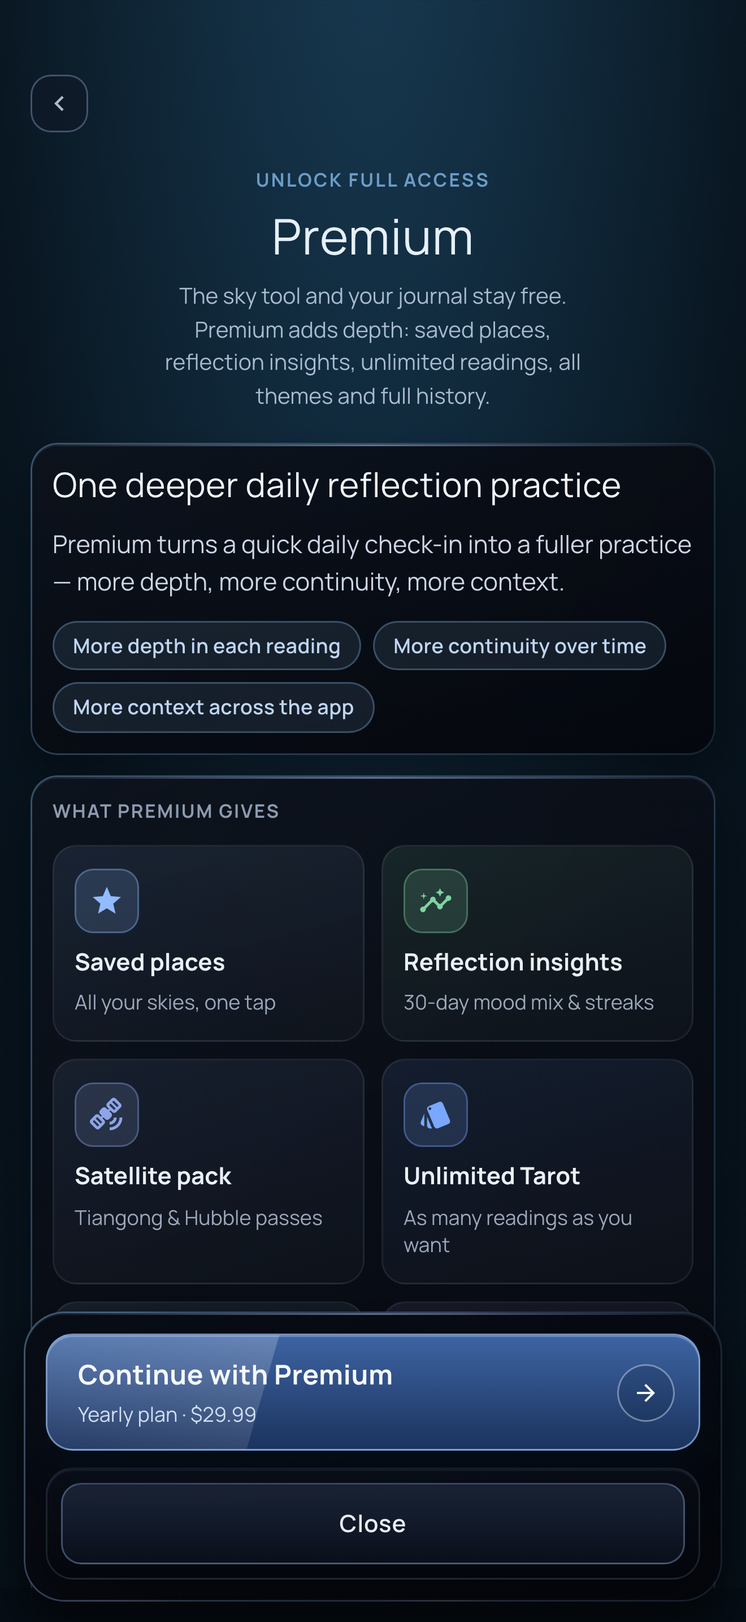
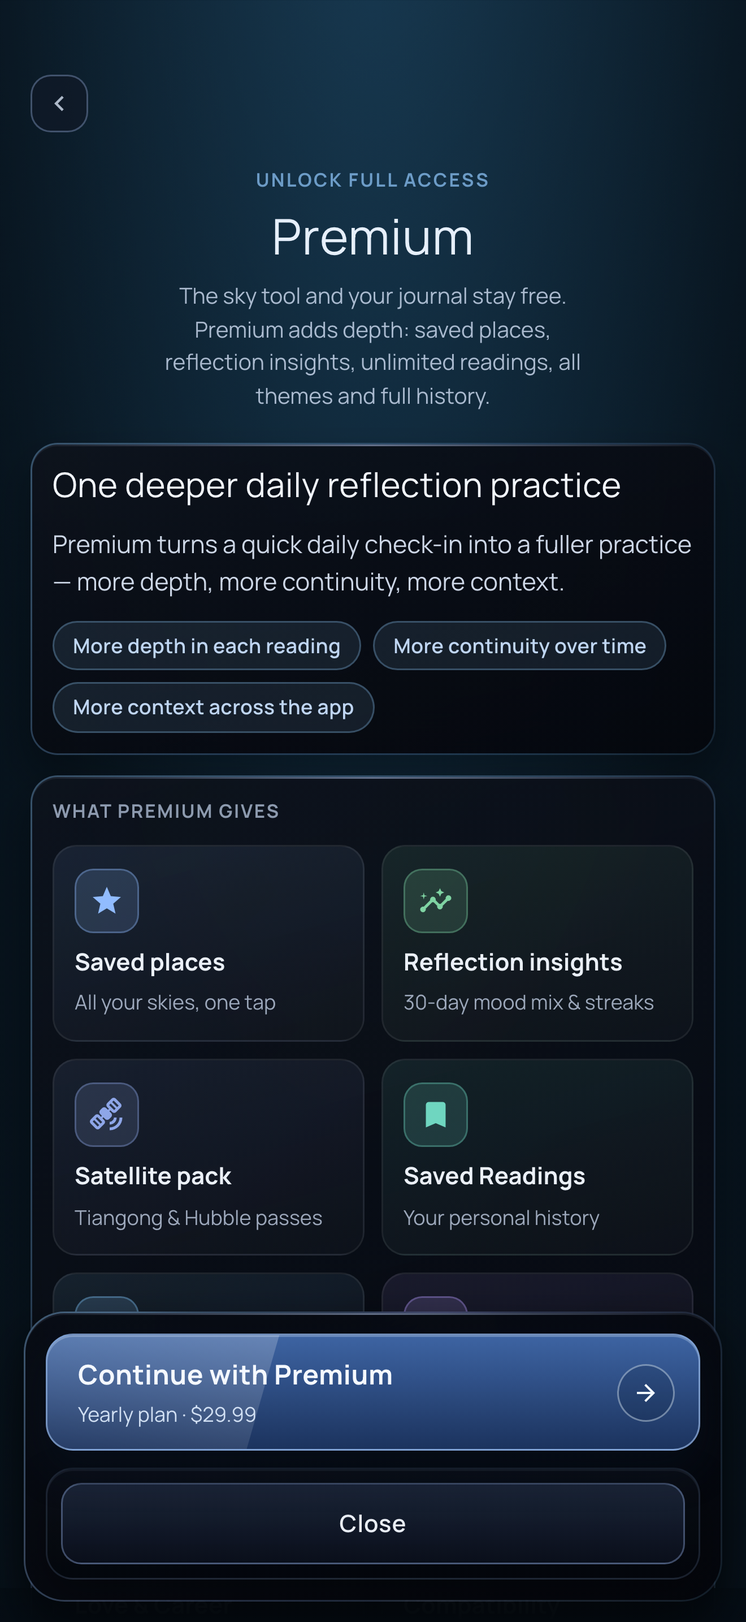
feat(premium): astronomy-first compare table and paywall grid order (owner decision 2026-08-02)
Compare table 5→8 rows, astro rows lead (saved places, journal insights,
satellites) in both locales; accessModel copy leads with the free sky tool.
Rendered paywall grid: all divination tiles below the 6.9in fold — above it
only sky/journal/satellites/history (B3 had patched a non-rendered list).
Shot 8 regenerated; 1-7 untouched. Out-of-scope findings in inbox/
(history tile copy wording — PO). Lint 0, tests 370/370.

Changed region(s): [[0.528, 0.6517, 0.8386, 0.8068], [0.0932, 0.7758, 0.1864, 0.8068]]

diff --git a/src/i18n/messages.bundle.js b/src/i18n/messages.bundle.js
@@ -1809,13 +1809,16 @@ export const messages = {
       title: 'Premium',
       subtitle: 'The sky tool and your journal stay free. Premium adds depth: saved places, reflection insights, unlimited readings, all themes and full history.',
       compareTable: {
-        lead: 'Free covers the full daily reflection ritual. Premium unlocks the deeper formats: full spreads, all daily themes, complete compatibility.',
-        summary: 'Premium = full access to every format with no daily limits.',
-        tarotFormat: { feature: 'Tarot spread', free: '1 card/day', premium: '1, 3, or 5 cards with no limit' },
-        interpretation: { feature: 'Reading depth', free: 'Short takeaway', premiumAi: 'Deep AI reading + action steps', premiumBasic: 'Deep reading + action steps' },
+        lead: 'The sky tool and the reflection journal are free in full. Premium adds more places, a longer view of your journal, and the satellite pack.',
+        summary: 'Premium = every observing place, 30-day insights, extra satellites — and no daily limits.',
+        savedPlaces: { feature: 'Observing places', free: '1 saved place', premium: 'Unlimited saved places' },
+        journalInsights: { feature: 'Journal insights', free: '7-day summary', premium: '30-day mood mix + streaks' },
+        satellites: { feature: 'Satellite passes', free: 'ISS', premium: 'ISS + Tiangong and Hubble' },
         horoscope: { feature: 'Daily themes', free: 'Energy only', premium: 'Energy, love, and career' },
+        interpretation: { feature: 'Reading depth', free: 'Short takeaway', premiumAi: 'Deep AI reading + action steps', premiumBasic: 'Deep reading + action steps' },
         compatibility: { feature: 'Compatibility', free: 'Score + 1 sphere', premium: 'Full relationship reading' },
-        history: { feature: 'History', free: 'No history', premium: 'All readings saved' },
+        history: { feature: 'Reading history', free: 'Not saved', premium: 'All readings saved' },
+        tarotFormat: { feature: 'Tarot spread', free: '1 card/day', premium: '1, 3, or 5 cards with no limit' },
       },
       billingIssues: {
         missingApiKey: 'The store is temporarily unavailable. Please try again later.',
@@ -1829,9 +1832,9 @@ export const messages = {
       },
       accessModel: {
         title: 'Access model',
-        free: 'Free: the daily reflection journal, daily card, energy reading, and one 1-card reading per day.',
+        free: 'Free: tonight’s sky in full — Moon, planets, events and ISS passes — plus the reflection journal, daily card, energy reading, and one 1-card reading per day.',
         premium:
-          'Premium: unlimited tarot sessions, all daily themes, full history, and compatibility insights.',
+          'Premium: unlimited saved observing places, 30-day reflection insights, Tiangong and Hubble passes, all daily themes, full reading history, compatibility insights, and unlimited tarot sessions.',
         purchasePrefix: 'Purchase:',
       },
       status: 'Current access model',
@@ -4449,13 +4452,16 @@ export const messages = {
       title: 'Преміум',
       subtitle: 'Астро-інструмент і твій журнал — безкоштовні. Premium додає глибину: збережені місця, інсайти рефлексії, безліміт розкладів, усі теми й повна історія.',
       compareTable: {
-        lead: 'Free покриває повний щоденний ритуал рефлексії. Premium відкриває глибші формати: повні розклади, всі щоденні теми, повна сумісність.',
-        summary: 'Premium = повний доступ до всіх форматів без денних лімітів.',
-        tarotFormat: { feature: 'Розклад таро', free: '1 карта/день', premium: '1, 3 або 5 карт без ліміту' },
-        interpretation: { feature: 'Розбір', free: 'Короткий висновок', premiumAi: 'Глибокий AI-розбір + кроки', premiumBasic: 'Глибокий розбір + кроки' },
+        lead: 'Небо і щоденник рефлексії безкоштовні повністю. Premium додає більше місць, довший погляд на щоденник і пакет супутників.',
+        summary: 'Premium = усі місця спостереження, інсайти за 30 днів, більше супутників — і без денних лімітів.',
+        savedPlaces: { feature: 'Місця спостереження', free: '1 збережене', premium: 'Без ліміту' },
+        journalInsights: { feature: 'Інсайти щоденника', free: 'Зведення за 7 днів', premium: 'Мікс настроїв за 30 днів + серії' },
+        satellites: { feature: 'Прольоти супутників', free: 'МКС', premium: 'МКС + Тяньгун і Габбл' },
         horoscope: { feature: 'Щоденні теми', free: 'Лише енергія', premium: 'Енергія, кохання, карʼєра' },
+        interpretation: { feature: 'Розбір', free: 'Короткий висновок', premiumAi: 'Глибокий AI-розбір + кроки', premiumBasic: 'Глибокий розбір + кроки' },
         compatibility: { feature: 'Сумісність', free: 'Бал + 1 сфера', premium: 'Повний розбір пари' },
-        history: { feature: 'Історія', free: 'Без історії', premium: 'Усі читання збережені' },
+        history: { feature: 'Історія читань', free: 'Не зберігаються', premium: 'Усі читання збережені' },
+        tarotFormat: { feature: 'Розклад таро', free: '1 карта/день', premium: '1, 3 або 5 карт без ліміту' },
       },
       billingIssues: {
         missingApiKey: 'Магазин тимчасово недоступний. Спробуй пізніше.',
@@ -4469,9 +4475,9 @@ export const messages = {
       },
       accessModel: {
         title: 'Модель доступу',
-        free: 'Free: щоденник рефлексії, карта дня, читання енергії та один розклад на 1 карту щодня.',
+        free: 'Free: небо сьогодні повністю — Місяць, планети, події і прольоти МКС — плюс щоденник рефлексії, карта дня, читання енергії та один розклад на 1 карту щодня.',
         premium:
-          'Premium: необмежені сесії таро, усі щоденні теми, повна історія та інсайти сумісності.',
+          'Premium: необмежені збережені місця спостереження, інсайти рефлексії за 30 днів, прольоти Тяньгун і Габбла, усі щоденні теми, повна історія читань, інсайти сумісності та необмежені сесії таро.',
         purchasePrefix: 'Покупка:',
       },
       status: 'Поточна модель доступу',

diff --git a/src/components/main/PremiumInfoComponent.vue b/src/components/main/PremiumInfoComponent.vue
@@ -271,12 +271,14 @@ const featureItems = computed(() => [
     sub: tt('premiumPage.feat.satellitesSub'),
   },
   {
-    key: 'tarot',
-    icon: 'style',
-    tint: '#7aa7ff',
-    title: tt('premiumPage.feat.tarot'),
-    sub: tt('premiumPage.feat.tarotSub'),
+    key: 'history',
+    icon: 'bookmark',
+    tint: '#6fd6c0',
+    title: tt('premiumPage.feat.history'),
+    sub: tt('premiumPage.feat.historySub'),
   },
+  // Т-B/B3 (рішення Олександра 2026-08-02): усе дивінаційне — таро, розклади,
+  // сумісність — нижче астрономічних плиток і історії, поза згином пейволла.
   {
     key: 'spreads',
     icon: 'grid_view',
@@ -305,28 +307,37 @@ const featureItems = computed(() => [
     title: tt('premiumPage.feat.compat'),
     sub: tt('premiumPage.feat.compatSub'),
   },
+  // Т-B/B3 (рішення Олександра 2026-08-02): «Unlimited Tarot» — остання плитка
+  // рендереного ґріду, щоб над згином пейволла було небо, а не таро.
   {
-    key: 'history',
-    icon: 'bookmark',
-    tint: '#6fd6c0',
-    title: tt('premiumPage.feat.history'),
-    sub: tt('premiumPage.feat.historySub'),
+    key: 'tarot',
+    icon: 'style',
+    tint: '#7aa7ff',
+    title: tt('premiumPage.feat.tarot'),
+    sub: tt('premiumPage.feat.tarotSub'),
   },
 ])
 
 const quickCompareRows = computed(() => {
   const c = (k) => tt(`premiumPage.compareTable.${k}`)
+  // Т-B (2026-08-02): the table mirrors getPremiumDetailItems() — the astronomy
+  // rows the listing actually sells lead, the divination rows follow, and the
+  // tarot row (spreads + no daily cap) closes the table, like the tarot tile
+  // closes the grid.
   return [
-    { id: 'tarot-format', feature: c('tarotFormat.feature'), free: c('tarotFormat.free'), premium: c('tarotFormat.premium') },
+    { id: 'saved-places', feature: c('savedPlaces.feature'), free: c('savedPlaces.free'), premium: c('savedPlaces.premium') },
+    { id: 'journal-insights', feature: c('journalInsights.feature'), free: c('journalInsights.free'), premium: c('journalInsights.premium') },
+    { id: 'satellites', feature: c('satellites.feature'), free: c('satellites.free'), premium: c('satellites.premium') },
+    { id: 'horoscope', feature: c('horoscope.feature'), free: c('horoscope.free'), premium: c('horoscope.premium') },
     {
       id: 'interpretation',
       feature: c('interpretation.feature'),
       free: c('interpretation.free'),
       premium: tarotAiEnabled ? c('interpretation.premiumAi') : c('interpretation.premiumBasic'),
     },
-    { id: 'horoscope', feature: c('horoscope.feature'), free: c('horoscope.free'), premium: c('horoscope.premium') },
     { id: 'compatibility', feature: c('compatibility.feature'), free: c('compatibility.free'), premium: c('compatibility.premium') },
     { id: 'history', feature: c('history.feature'), free: c('history.free'), premium: c('history.premium') },
+    { id: 'tarot-format', feature: c('tarotFormat.feature'), free: c('tarotFormat.free'), premium: c('tarotFormat.premium') },
   ]
 })
 

diff --git a/STATUS.md b/STATUS.md
@@ -20,6 +20,7 @@
 - `npm run ai:scan:all` перегнано (рішення Олександра 2026-08-01): тести/білд у кокпіті свіжі.
 
 ## Далі / заблоковано
+- ~~dev: вердикт по briefs/2026-08-02-premium-storinka-prodovzhennia-t-b-tablytsia.md — Premium-сторінка, продовження Т-B: таблиця і блок Access model досі дивінаційні~~ **зроблено 2026-08-02 (dev):** `artifacts/reports/2026-08-premium-compare-table.md`. Таблиця 5 дивінаційних рядків → **8**, астро першими (місця 1/без ліміту, інсайти 7/30 днів, супутники МКС/+Тяньгун і Габбл), таро останнім; `accessModel` free веде з неба і щоденника. Обидві локалі, lint 0, **370/370**, шот 8 перегенеровано (1–7 не змінені). Знахідка поза обсягом: `inbox/2026-08-02-premium-grid-tarot-tile-fourth.md` — плитка «Unlimited Tarot» на пейволлі **четверта над згином**, B3 правив нерендерений список; ~~Олександр: рішення про порядок плиток до сабміту~~ **рішення 2026-08-02 (Олександр): перенести останньою** → ~~dev: перенести і перезняти шот 8~~ **зроблено 2026-08-02 (dev):** `tarot` останній у рендереному `featureItems` (`PremiumInfoComponent.vue`), мертвий `getPremiumDetailItems()` не чіпано; lint 0, **370/370**, шот 8 перезнято обома розмірами — «Unlimited Tarot» більше не в кадрі (6.9in над згином: Saved places / Reflection insights / Satellite pack / 3 & 5 Cards). Шоти 1 і 3 генератор змінив недетерміновано (ефемерида за ~19 хв) — відкочено, у діффі тільки 8. Поза обсягом: `inbox/2026-08-02-premium-grid-spreads-tile-above-fold.md` (плитка «3 & 5 Cards» тепер четверта над згином — теж таро); ~~**рішення 2026-08-02 (Олександр), продовження того самого: усе дивінаційне — після астрономічних і history; над згином 6.9in тільки небо/щоденник/супутники/історія** → dev: перенести і перезняти шот 8~~ **зроблено 2026-08-02 (dev):** блок `history` піднято з 8-ї на 4-ту позицію `featureItems`, решта порядку не чіпана (savedPlaces, insights, satellites, history, spreads, ai, love, compat, tarot); lint 0, **370/370**, шот 8 перезнято обома розмірами — над згином 6.9in Saved places / Reflection insights / Satellite pack / Saved Readings, на 6.5in перші дві; «3 & 5 Cards», «Unlimited Tarot», «Compatibility» у кадр не потрапляють. Шоти 1–3 генератор змінив недетерміновано — відкочено, у діффі тільки 8-premium. Поза обсягом: `inbox/2026-08-02-premium-history-tile-copy.md` (копі плитки — «Saved Readings», семантично про читання таро)
 - ~~стратег: вердикт по briefs/2026-08-02-appstore-4-3-b-not-spam.md~~ **зроблено 2026-08-02 (стратег):** `artifacts/reports/2026-08-appstore-4-3-b-strategy.md`. Вердикт — **подавати після змін**; концепт 4.3(b) не порушує (реальні обчислення: `astronomy-engine` + SGP4 через `satellite.js`), ніша місячних календарів щільна, але не в переліку категорій із тексту реджекту (Moonlitt — 4.7★, 763 оцінки, ADA 2026) → міняємо ризик ревʼю на ризик дистрибуції. Проблема в активах: **4 з 8 завантажених скріншотів** показують астрологію/нумерологію (`5-sky-visible` — «PLANETS NOW: Mercury Cancer 19°… Saturn Aries 15° ℞», `SkyPage.vue:259`; `6-journal` — «Moon in Aquarius · Full Moon · Day 2», число дня з `journalCore.js:119` ще й обирає питання дня; `7-menu`; `8-premium` — «Unlimited Tarot»), а блок ARCANA PREMIUM в описі ASC продає 3 дивінаційні буллети з 4, тоді як пейволл у білді вже продає небо. Тому «divination … only in Menu, never Home/Sky/Journal/a tab» у чеклисті й reviewer-notes — **неправда**, і подавати з цим текстом не можна. Тактика: новий бінарник, **апеляцію не подавати**; допис у Resolution Center по 5a29fded — за бажанням, чернетка в звіті. Далі за вердиктом ⤵
 - ~~Олександр — рішення до 2026-08-03 (тиша до 04.08 = «ні»): робимо Т-B чи ні (розділ 5 звіту) — одна dev-сесія, тільки видалення 4 UI-блоків, але тягне регресію + перезняття скріншотів проти дедлайну 09.08. Мій голос — робимо. Плюс два дрібніші рішення: чи писати в Resolution Center; чи лишати «Unlimited readings» в описі Premium~~ **рішення 2026-08-02 (Олександр):** так, робимо Т-B. Два дрібніші — за рекомендацією звіту: допис у Resolution Center за бажанням перед сабмітом; «unlimited readings» лишається, але останнім рядком (покривається B3).
 - ~~Олександр: Т-A — до 2026-08-04 (скріншоти, опис, категорія, канон)~~ **зроблено 2026-08-02 (Олександр, руками консультанта, через ASC API — скіл asc-api):** категорія LIFESTYLE→REFERENCE (primary) + Lifestyle secondary; відхилену версію 1.0 перейменовано в 1.0.1 (флоу Apple після реджекту); опис en-US 2868 зн. + uk 2754 зн. з оновленим блоком ARCANA PREMIUM (канон asc-metadata.md синхронізовано, підписи шота 7 знято), keywords астрономічні; скріншоти 1–4 залито в APP_IPHONE_67 і APP_IPHONE_65 обох локалей (стан COMPLETE, контрольне читання). Назви/сабтайтли вже стояли правильні. Лишилось до сабміту: шоти 5–6 після вердикту qa, білд 58, What's New недоступний до першої живої версії.
@@ -36,6 +37,6 @@
 - **Рішення Олександра 2026-08-02 про обсяг:** `observer-calendar-day` іде **одним обсягом R1–R4** у білд 58; розділи **B і C приймання діють** (умовність знято). Причина — розділення не варте ще одного повного прогону qa. ~~dev: реалізація за спекою + самоперевірка~~ **зроблено 2026-08-02 (dev), код у робочому дереві (не закомічено):** реалізовано R1–R4 за `docs/specs/observer-calendar-day.md`. Три чисті функції в `src/helpers/skyTime.js` (`zoneCalendarDate`, `zoneCalendarDaysBetween`, `zoneDateAtWallTime`) + `{ zone }` у `findUpcomingLunarEvents` / `computeMoonDetail` / `computeUpcomingSkyEvents`. Числа (база — зріз приймання): календар на LA-пристрої з дефолтним Києвом 2026-08-01T06:30Z **липень → серпень, підсвічене 1**; 2026-08-02T21:30Z **2 → 3**; Київ-пристрій × Сідней **1 → 2**; Персеїди **«13 серпня 08:00» → «12 серпня, 22:00»** (перевірено на 4 поясах пристрою); мітка для 12.08 у момент 2026-08-11 12:00 Київ **«через 2 дні» → «завтра»**. Самоперевірка: **D1** lint exit 0; **D2** тести **370/370 у п'яти поясах** (база 356/356, новий файл `tests/skyCalendarDay.test.js` — 14 тестів, базові числа спеки відтворено окремим прогоном); **D3** дифф по `dailyRitual.js` / `dailyCardCore.js` / `horoscopeContentCore.js` **порожній**; **D4** `ai:scan:all` **2 issues** (та сама база — 2; ті самі чесні P0 owner-прогін IAP і P2 payload-review); **D5** правки лише в `<script setup>`, шаблонів не чіпано; **D6** нових мережевих викликів немає (пояси — з ОС через `Intl`); **D8** дифф по `src/i18n/` порожній. `npm run build` ok. ADR: `docs/decisions/observer-calendar-day.md`. Поза обсягом (не чіпав): `inbox/2026-08-02-device-day-outside-sky-screens.md`. **D7 зроблено 2026-08-02 (dev, за рішенням Олександра):** `08b2fb9` у `main`, run [30740063338](https://github.com/OleksandrHrubyi/Arcana-Insight/actions/runs/30740063338) — success; кроки «Unit tests (device west of UTC)» (`America/Los_Angeles`) і «(device east of UTC)» (`Australia/Sydney`) обидва зелені, Edge Function Tests success. **Без доказу лишились лише пункти на пристрої** — A1–A3 скріншоти LA-симулятора, D6 офлайн-прогін (Олександр). ~~**qa:** прогін приймання `docs/acceptance/observer-calendar-day.md` розділами A–D~~ **зроблено 2026-08-02 (qa):** див. рядок нижче.
 - **`observer-calendar-day`: НЕ ПРИЙНЯТО (qa, 2026-08-02)** — `docs/acceptance/observer-calendar-day.verdict.md`. Провалених по суті критеріїв немає: A2–A6, B1–B3, C1, C3, D1–D5, D7, D8 прийнято; C2 перевірено незалежно від тесту в діффі (той циклічний) — **2384 рядки стрічки на 6 локаціях × 4 поясах пристрою × 5 моментах, 0 розбіжностей** між міткою і надрукованою датою. Перегнано самостійно: lint exit 0, **370/370 у п'яти поясах**, `ai:scan:all` **2 issues**, дифф по стріку/карті дня/гороскопу порожній, CI 30740063338 зелений з обома не-UTC кроками. Не прийнято через два докази з пристрою: **A1** (приймання вимагає «юніт-тест **+** скріншот»; тестами покрито хелпер, а не зв'язок сторінки з ним) і **D6** (офлайн-прогін). ~~Олександр: скріншот LA-симулятора на 2026-08-01T06:30Z і офлайн-прогін~~ **зроблено 2026-08-02:** `proofs/2026-08-02/A1-*.png` — заголовок «Saturday, August 1» + календар August з підсвіченим 1 при LA-пристрої, точний момент відтворено `page.clock`; офлайн-прогін 0 помилок (README про метод); ~~потім повторний qa **лише по цих двох пунктах**~~ **зроблено 2026-08-02 (qa): ПРИЙНЯТО** — див. рядок нижче → потім білд 58. Поза обсягом, рішення продакт-оунера: `inbox/2026-08-02-calendar-disc-still-on-device-noon.md` (диск у клітинці досі на полудні пристрою; число «≤2.6 в.п.» у рядку рішення неточне — реально **4.80 в.п.**), `inbox/2026-08-02-meteor-reminder-key-shifted.md` (ключ нагадування зсунувся — стара заплановка з білда 57 лишається висіти і дублюється).
 - **`observer-timezone` + `observer-calendar-day`: ПРИЙНЯТО (qa, 2026-08-02)** — обидва вердикти оновлено розділом «Повторне приймання». Подані докази не годились: шість PNG = три різні зображення (`md5`), а кадр під іменем B1 не містив жодного з чисел критерію, тож qa перегнав доказ сам — `docs/acceptance/proofs/2026-08-02-qa/` (скрипт + банер із поясом пристрою в кожному кадрі). Закрито: **B1** 05:25 / 20:42 / 15h 17min + мітка `UTC+3` при пристрої в LA на 31.07; **A1** заголовок «August 1» і календар August/1 в одному кадрі; **D4/D6** лог мережі офлайн — єдиний запит `open-meteo` існував до правки, 0 pageerror. Метод (браузер із керованим часом замість симулятора) прийнято для B1/A1; для офлайну межі названо у вердикті — холодний старт без мережі не покритий, закривається owner-прогоном §0. Регресія на дереві з Т-B: **370/370 у 5 поясах**, lint exit 0, `ai:scan:all` **2 issues**. **qa: лишається окремий прогін регресії Sky/Journal/Premium після Т-B** (призначення в рядку Т-B вище) → потім Олександр: білд 58 і сабміт.
-- **Олександр, до 2026-08-09:** owner-кроки чеклиста — real-device прогін (§0) — тепер можна прямо з TestFlight-збірки 57, ASC-поля, sandbox-тест IAP, демо-відео.
+- ~~Олександр, до 2026-08-09: owner-кроки чеклиста — real-device прогін (§0), ASC-поля, sandbox-тест IAP, демо-відео~~ **закрито 2026-08-02 (Олександр):** real-device прогін зроблено на телефоні («все норм»); sandbox-покупка/відновлення тестувались раніше; ASC-поля заповнені через API (див. рядок Т-A); демо-відео — свідомо пропускаємо (для Apple опційне, free tier відкритий ревʼюеру без акаунта), старе таро-відео від 08.07 ВИДАЛЕНО з review-вкладень через API.
 - **Олександр:** north_star — визначити ПІСЛЯ апруву (рішення 2026-08-01; до того в project.yaml чесно лишається TODO).
 - ~~Олександр: стелі витрат — оголосити в project.yaml~~ **зроблено 2026-08-01:** $25/міс сумарно (OpenAI + Supabase) до вердикту гейта; Apple $99/рік фіксовано (`project.yaml → metrics.spend_ceiling`).

diff --git a/artifacts/reports/2026-08-premium-compare-table.md b/artifacts/reports/2026-08-premium-compare-table.md
@@ -1,0 +1,76 @@
+# Вердикт: compare-таблиця і блок Access model на Premium — приведено до реального пейволла
+
+Джерело: briefs/2026-08-02-premium-storinka-prodovzhennia-t-b-tablytsia.md
+Дата: 2026-08-02 · роль: dev
+
+## Критерії вердикту (сформульовані до роботи)
+1. Кожен рядок таблиці і кожне твердження в `accessModel` звірені з живим гейтингом у коді
+   (не з маркетингом); там, де код і бриф розходяться — виграє код, розбіжність названа.
+2. Астрономічні рядки — першими, дивінаційні — після них; порядок відповідає
+   `getPremiumDetailItems()`, рядок про безліміт таро — останній.
+3. Обидві локалі (`en`, `uk`) в `src/i18n/messages.bundle.js`, рендер через ключі, нуль
+   локальних тернарників у компоненті.
+4. Нових фіч і змін гейтингу нуль — тільки тексти і склад рядків.
+5. Регресія: lint exit 0, тести на тій самій базі (370), шот 8 перегенеровано штатним
+   генератором, шоти 1–7 не змінені.
+
+## Що зроблено
+**Таблиця** (`quickCompareRows`, `PremiumInfoComponent.vue:317`) — було 5 рядків, усі
+дивінаційні. Стало 8, астро першими:
+
+| # | рядок | free | premium | звірено з кодом |
+|---|-------|------|---------|-----------------|
+| 1 | Місця спостереження | 1 збережене | Без ліміту | `skyFavoritesCore.js:5` `FREE_FAVORITE_LIMIT = 1`, `canSaveFavorite(list, hasPremium)` |
+| 2 | Інсайти щоденника | Зведення за 7 днів | Мікс настроїв за 30 днів + серії | free-секція `journal-patterns` без гейта (`JournalPage.vue:126`, `JOURNAL_PATTERNS_WINDOW_DAYS = 7`); premium — `JournalPage.vue:152` під `hasPremiumAccess`, `JOURNAL_INSIGHTS_WINDOW_DAYS = 30` |
+| 3 | Прольоти супутників | МКС | МКС + Тяньгун і Габбл | `issPasses.js:19` `PREMIUM_SATELLITES = [css, hst]`, `SkyPage.vue:666` — free повертає локований тизер |
+| 4 | Щоденні теми | Лише енергія | Енергія, кохання, карʼєра | `PREMIUM_MODEL_LIMITS.freeHoroscopeThemes = ['energy']` |
+| 5 | Розбір | Короткий висновок | Глибокий розбір + кроки | без змін |
+| 6 | Сумісність | Бал + 1 сфера | Повний розбір пари | без змін (значення запінені `tests/premiumCopyConsistency.test.js:144`) |
+| 7 | Історія читань | Не зберігаються | Усі читання збережені | `SavedReadingsPage.vue:16` — лок для free. Заголовок уточнено: було «Історія / Без історії», а історія **щоденника** безкоштовна — рядок стосується лише розкладів |
+| 8 | Розклад таро | 1 карта/день | 1, 3 або 5 карт без ліміту | `PREMIUM_MODEL_LIMITS` 1/5 карт, 1 сесія/день |
+
+Порядок = `getPremiumDetailItems()` з однією свідомою відмінністю: у сітці деталей
+«розклади» і «безліміт таро» — дві окремі плитки, у таблиці це один рядок «Розклад таро»,
+і він стоїть **останнім** (за логікою «unlimited readings останнім» з брифу і B3).
+
+**Лід і підсумок таблиці** — вели з дивінації («Free покриває повний щоденний ритуал
+рефлексії… Premium відкриває глибші формати: повні розклади…»), тепер ведуть із неба:
+uk «Небо і щоденник рефлексії безкоштовні повністю. Premium додає більше місць, довший
+погляд на щоденник і пакет супутників.» / «Premium = усі місця спостереження, інсайти за
+30 днів, більше супутників — і без денних лімітів.»
+
+**Access model** (`premiumPage.accessModel`, читається скрінрідером і в `<dl>`):
+- free — було «щоденник рефлексії, карта дня, читання енергії та один розклад на 1 карту».
+  Стало: «небо сьогодні повністю — Місяць, планети, події і прольоти МКС — плюс щоденник
+  рефлексії, карта дня, читання енергії та один розклад на 1 карту щодня» (аргумент 4.3(b):
+  ядро безкоштовне).
+- premium — було «необмежені сесії таро, усі щоденні теми, повна історія та інсайти
+  сумісності». Стало: «необмежені збережені місця спостереження, інсайти рефлексії за 30
+  днів, прольоти Тяньгун і Габбла, усі щоденні теми, повна історія читань, інсайти
+  сумісності та **необмежені сесії таро**» — таро останнім.
+
+Обидва блоки — в `en` і `uk` секціях `messages.bundle.js`; у компоненті тільки ключі.
+
+## Розбіжність брифу з кодом (виграв код)
+Бриф: «інсайти щоденника (free: настрій сьогодні / premium: 30-денний мікс і серії)».
+Насправді free бачить не «настрій сьогодні», а **зведення за 7 днів** (кількість записів,
+топ-настрій, топ-фаза) — `computeJournalPatterns`, секція без гейта. Написав як у коді.
+
+## Регресія
+- lint exit 0.
+- Тести **370/370** — та сама база (370 до правки); `tests/premiumCopyConsistency.test.js`
+  зелений, зокрема запінені `compatibility.free` в обох локалях.
+- Рендер перевірено окремим прогоном Playwright на живій сторінці (тимчасовий спек,
+  видалений після прогону): 8 рядків у порядку вище, обидві локалі, ключі резолвляться —
+  порожніх значень нуль.
+- Шот 8 перегенеровано штатним `tests/visual/appstore-shots.spec.js` (обидва розміри,
+  6.9″ і 6.5″). Шоти 1–7 збережено байт-у-байт (бекап до прогону → відновлення після);
+  `git status` показує зміненими рівно `*/8-premium.png`.
+
+## Що НЕ зроблено (свідомо, поза обсягом)
+Сама compare-таблиця у шоті 8 **нижче згину** — кадр рамкує герой і сітку плиток, тому
+візуально шот 8 змінився мінімально. І там видно окрему проблему: плитка «Unlimited Tarot»
+на живому пейволлі — **четверта**, бо сітку малює `featureItems`, а не
+`getPremiumDetailItems()` (той нікуди не імпортується, крім тестів). Тобто B3 правив
+список, якого не видно. Деталі й місця в коді: `inbox/2026-08-02-premium-grid-tarot-tile-fourth.md`.
+Це рішення продакт-оунера/Олександра до сабміту, не моя правка.

diff --git a/briefs/2026-08-02-premium-storinka-prodovzhennia-t-b-tablytsia.md b/briefs/2026-08-02-premium-storinka-prodovzhennia-t-b-tablytsia.md
@@ -1,0 +1,41 @@
+# Бриф: Premium-сторінка, продовження Т-B: таблиця порівняння (premiumAccess.model у messages.bundle.js) і блок Access model досі дивінаційні — привести до реального пейволла в EN і uk
+
+Поставлено: 2026-08-02 (Олександр, з панелі)
+Виконавець: dev
+
+## Контекст
+Знахідка Олександра 2026-08-02 після заливки білда 58. Два місця: (1) compare-таблиця premiumAccess.model.* — рядки readings/interpretation/horoscope/compatibility/history, жодного астро-рядка; додати рядки про збережені місця спостереження (free: 1 місце? — звір з кодом skyFavoritesCore), інсайти щоденника (free: настрій сьогодні / premium: 30-денний мікс і серії), пакет супутників (free: МКС / premium: +Тяньгун, Габбл), історію; дивінаційні рядки лишити, але ПІСЛЯ астрономічних. (2) accessModel.free/premium — переписати: free веде з неба і щоденника (вони безкоштовні повністю — аргумент 4.3(b)), premium веде з savedPlaces/journalInsights/satellites, unlimited readings останнім. ОБИДВІ локалі messages.bundle.js (en і uk), рендер через ключі. Порядок як у getPremiumDetailItems. Після правки: lint, тести, перегенерувати шот 8 генератором tests/visual/appstore-shots.spec.js. Нових фіч нуль — тільки тексти і склад рядків таблиці.
+
+## Питання
+Premium-сторінка, продовження Т-B: таблиця порівняння (premiumAccess.model у messages.bundle.js) і блок Access model досі дивінаційні — привести до реального пейволла в EN і uk
+
+## Критерії вердикту
+(сформульовано dev 2026-08-02 перед роботою)
+1. Кожен рядок таблиці і кожне твердження в `accessModel` звірені з живим гейтингом у коді;
+   де код і бриф розходяться — виграє код, розбіжність названа у вердикті.
+2. Астрономічні рядки першими, дивінаційні після них; порядок за `getPremiumDetailItems()`,
+   рядок про безліміт таро — останній.
+3. Обидві локалі (`en`, `uk`) в `src/i18n/messages.bundle.js`, рендер через ключі.
+4. Нових фіч і змін гейтингу нуль — тільки тексти і склад рядків.
+5. Регресія: lint exit 0, тести на тій самій базі (370), шот 8 перегенеровано штатним
+   генератором, шоти 1–7 не змінені.
+
+## Куди вердикт
+Файл у artifacts/reports/; сюди — розділ «## Вердикт 2026-MM-DD (dev)»;
+рядок у STATUS «Далі» оновити за конвенцією ядра.
+
+## Вердикт 2026-08-02 (dev)
+Зроблено: `artifacts/reports/2026-08-premium-compare-table.md`.
+Таблиця — 5 дивінаційних рядків → **8**, астро першими (місця спостереження 1/без ліміту;
+інсайти щоденника 7 днів/30 днів + серії; супутники МКС/МКС+Тяньгун і Габбл), далі теми,
+розбір, сумісність, історія читань, а **розклад таро останнім**. Лід і підсумок таблиці та
+блок `accessModel` (free/premium) переписані: free веде з неба і щоденника, premium — із
+savedPlaces/journalInsights/satellites, безліміт таро останнім. Обидві локалі, лише ключі.
+Числа звірені з кодом: `FREE_FAVORITE_LIMIT = 1`, `JOURNAL_PATTERNS_WINDOW_DAYS = 7` (free,
+без гейта) проти `JOURNAL_INSIGHTS_WINDOW_DAYS = 30` (premium), `PREMIUM_SATELLITES = [css, hst]`.
+Розбіжність із брифом: free-інсайти — це **зведення за 7 днів**, а не «настрій сьогодні».
+Регресія: lint exit 0, **370/370** (та сама база), рендер обох локалей перевірено на живій
+сторінці, шот 8 перегенеровано штатним генератором в обох розмірах, шоти 1–7 байт-у-байт ті самі.
+Поза обсягом (не чіпав): `inbox/2026-08-02-premium-grid-tarot-tile-fourth.md` — плитка
+«Unlimited Tarot» у сітці пейволла четверта, бо живий список — `featureItems`, а
+`getPremiumDetailItems()` (який правив B3) ніде не рендериться.

diff --git a/inbox/2026-08-02-premium-grid-spreads-tile-above-fold.md b/inbox/2026-08-02-premium-grid-spreads-tile-above-fold.md
@@ -1,0 +1,51 @@
+# Плитка «3 & 5 Cards» лишилась над згином шота 8 після виносу «Unlimited Tarot»
+
+Дата: 2026-08-02 · знайшов: dev (у сесії по переносу плитки tarot)
+
+Після перенесення `tarot` в кінець `featureItems` четвертою плиткою над згином
+6.9in-шота 8 стала **«3 & 5 Cards · Full spread readings»** (ключ `spreads`,
+`src/components/main/PremiumInfoComponent.vue`). Це теж таро — розкладами.
+На 6.5in у кадр не потрапляє (там видно лише перші дві плитки).
+
+Чому це може мати значення: розділ 5 звіту `artifacts/reports/2026-08-appstore-4-3-b-strategy.md`
+називав проблемою активів саме дивінаційний контент у завантажених скріншотах.
+Рішення Олександра 2026-08-02 стосувалось лише плитки «Unlimited Tarot», тому
+`spreads` не чіпав — обсяг не розширюю.
+
+Де дивитись: `PremiumInfoComponent.vue` → `featureItems`, ключ `spreads`
+(`premiumPage.feat.spreads` / `.spreadsSub` у `src/i18n/messages.bundle.js`);
+шот `app-store/screenshots/6.9in_1320x2868/8-premium.png`.
+
+Варіанти, якщо вирішимо чіпати: перенести `spreads` слідом за `tarot` у хвіст
+(тоді над згином — 4 астро/журнальні плитки) або лишити як є. Ціна — ще одне
+перезняття шота 8. Рішення — за продакт-оунером/Олександром до сабміту.
+
+## Розібрано 2026-08-02 (dev)
+
+Рішення Олександра 2026-08-02 (продовження того самого рішення про пейволл, не нове):
+все дивінаційне — `spreads` і решта таро/гороскопних плиток — стоїть ПІСЛЯ
+астрономічних та `history` у рендереному `featureItems`
+(`src/components/main/PremiumInfoComponent.vue`). Правка мінімальна: блок `history`
+піднято з 8-ї позиції на 4-ту, решта порядку не чіпана.
+
+Живий порядок ґріду: savedPlaces, insights, satellites, **history**, spreads, ai,
+love, compat, tarot. Мертвий `getPremiumDetailItems()` (`premiumModel.js:101`) не
+чіпано — він і далі тільки в тестах. Порядок ніде більше не зафіксований
+(grep `featureItems` дає лише сам компонент і його `v-for`).
+
+Регресія: lint exit 0, **370/370** (та сама база), шот 8 перегенеровано штатним
+`tests/visual/appstore-shots.spec.js` в обох розмірах.
+Доказ (перевірено на самих PNG): 6.9in над згином — Saved places / Reflection
+insights / Satellite pack / Saved Readings; 6.5in — Saved places / Reflection
+insights. «3 & 5 Cards», «Unlimited Tarot», «Compatibility» у кадр не потрапляють
+у жодному розмірі.
+
+Генератор недетермінований (як 2026-08-02 у попередній сесії): у тому ж прогоні
+змінилися ще шоти 1, 2 і 3 в обох розмірах — усі шість відкочено до HEAD, бо 1–4
+вже залиті в ASC. У діффі лишився **тільки 8-premium** (обидва розміри).
+
+Лишається поза обсягом (не чіпав): копі самої плитки `history` —
+«Saved Readings · Your personal history» — семантично про читання таро, хоча
+Олександр явно назвав «історію» дозволеною над згином. Якщо рев'ювер прочитає
+її як дивінаційну, тексту `premiumPage.feat.history*` знадобиться астро-нейтральне
+формулювання: `inbox/2026-08-02-premium-history-tile-copy.md`.

diff --git a/inbox/2026-08-02-premium-grid-tarot-tile-fourth.md b/inbox/2026-08-02-premium-grid-tarot-tile-fourth.md
@@ -1,0 +1,39 @@
+# Плитка «Unlimited Tarot» на Premium — четверта, а не остання (B3 правив мертвий список)
+
+Дата: 2026-08-02 · знайшов: dev (у сесії по брифу про compare-таблицю)
+
+Т-B/B3 записано як «"Unlimited Tarot" — остання плитка `getPremiumDetailItems()`».
+Проблема: `getPremiumDetailItems()` (`src/constants/premiumModel.js:101`) **ніде не рендериться** —
+його імпортує лише `tests/premiumModel.test.js`. Живу сітку «What Premium gives» на
+пейволлі малює `featureItems` у `src/components/main/PremiumInfoComponent.vue:251`,
+де порядок інший: savedPlaces, insights, satellites, **tarot (4-та)**, spreads, ai,
+love, compat, history — тексти з `premiumPage.feat.*`, не з `premiumPage.premiumDetails.*`.
+
+Наслідок: на перезнятому шоті 8 (`app-store/screenshots/*/8-premium.png`) плитка
+**«Unlimited Tarot · As many readings as you want» видно над згином** — саме те, що
+розділ 5 звіту `artifacts/reports/2026-08-appstore-4-3-b-strategy.md` називав проблемою
+активів. Тобто B3 фактично не виконано на тому, що бачить рев'юер.
+
+Де дивитись: `PremiumInfoComponent.vue:251-315` (живий список), `premiumModel.js:101`
+(мертвий), ключі `premiumPage.feat.*` у `src/i18n/messages.bundle.js`.
+
+Не чіпав — поза обсягом брифу (бриф = compare-таблиця + accessModel). Рішення про
+порядок плиток і перезняття шота 8 — за продакт-оунером/Олександром до сабміту.
+
+## Розібрано 2026-08-02 (dev)
+
+Рішення Олександра 2026-08-02: плитку `tarot` перенесено **останньою** в рендереному
+`featureItems` (`src/components/main/PremiumInfoComponent.vue`). Живий порядок ґріду:
+savedPlaces, insights, satellites, spreads, ai, love, compat, history, **tarot**.
+Мертвий `getPremiumDetailItems()` не чіпано — він і далі тільки в тестах.
+
+Регресія: lint exit 0, **370/370** (та сама база), шот 8 перегенеровано штатним
+`tests/visual/appstore-shots.spec.js` в обох розмірах. Доказ: на 6.9in над згином
+тепер Saved places / Reflection insights / Satellite pack / 3 & 5 Cards, на 6.5in —
+Saved places / Reflection insights; «Unlimited Tarot» у кадр не потрапляє в жодному.
+
+Генератор недетермінований: у тому ж прогоні змінилися ще шоти 1 і 3 (у 3-sky-moon
+DISTANCE 386,862 → 386,678 км — ефемерида за ~19 хв, не наслідок правки). Обидва
+відкочено до HEAD, бо 1–4 вже залиті в ASC; у діффі лишився **тільки 8-premium**.
+
+Нове поза обсягом (не чіпав): `inbox/2026-08-02-premium-grid-spreads-tile-above-fold.md`.

diff --git a/inbox/2026-08-02-premium-history-tile-copy.md b/inbox/2026-08-02-premium-history-tile-copy.md
@@ -1,0 +1,24 @@
+# Плитка «Saved Readings» тепер над згином шота 8 — копі про читання, не про небо
+
+Дата: 2026-08-02 · знайшов: dev (у сесії по переносу дивінаційних плиток у хвіст)
+
+Рішення Олександра 2026-08-02 дозволило «історію» над згином пейволла, тому
+плитку `history` піднято на 4-ту позицію `featureItems`
+(`src/components/main/PremiumInfoComponent.vue`). Її копі —
+**«Saved Readings · Your personal history»** / «Збережені читання · Твоя особиста
+хроніка» (`premiumPage.feat.history` / `.historySub` у `src/i18n/messages.bundle.js`).
+
+Чому це може мати значення: слово «readings» — дивінаційне. Розділ 5 звіту
+`artifacts/reports/2026-08-appstore-4-3-b-strategy.md` називав проблемою активів
+саме дивінаційний контент у завантажених скріншотах. Тобто над згином 6.9in
+формально виконано (небо + історія), але текстово там лишається «Readings».
+
+Де дивитись: шот `app-store/screenshots/6.9in_1320x2868/8-premium.png`, правий
+нижній тайл над згином; ключі `premiumPage.feat.history` / `.historySub`
+(обидва блоки en і uk).
+
+Варіанти, якщо вирішимо чіпати: переформулювати на нейтральне («Saved entries»,
+«Full history» — історія і спостережень, і записів журналу) або лишити як є.
+Ціна — правка i18n у двох локалях + ще одне перезняття шота 8. Копі не чіпав:
+Олександр назвав «історію» дозволеною, тексту не стосувався — обсяг не розширюю.
+Рішення — за продакт-оунером/Олександром до сабміту.
